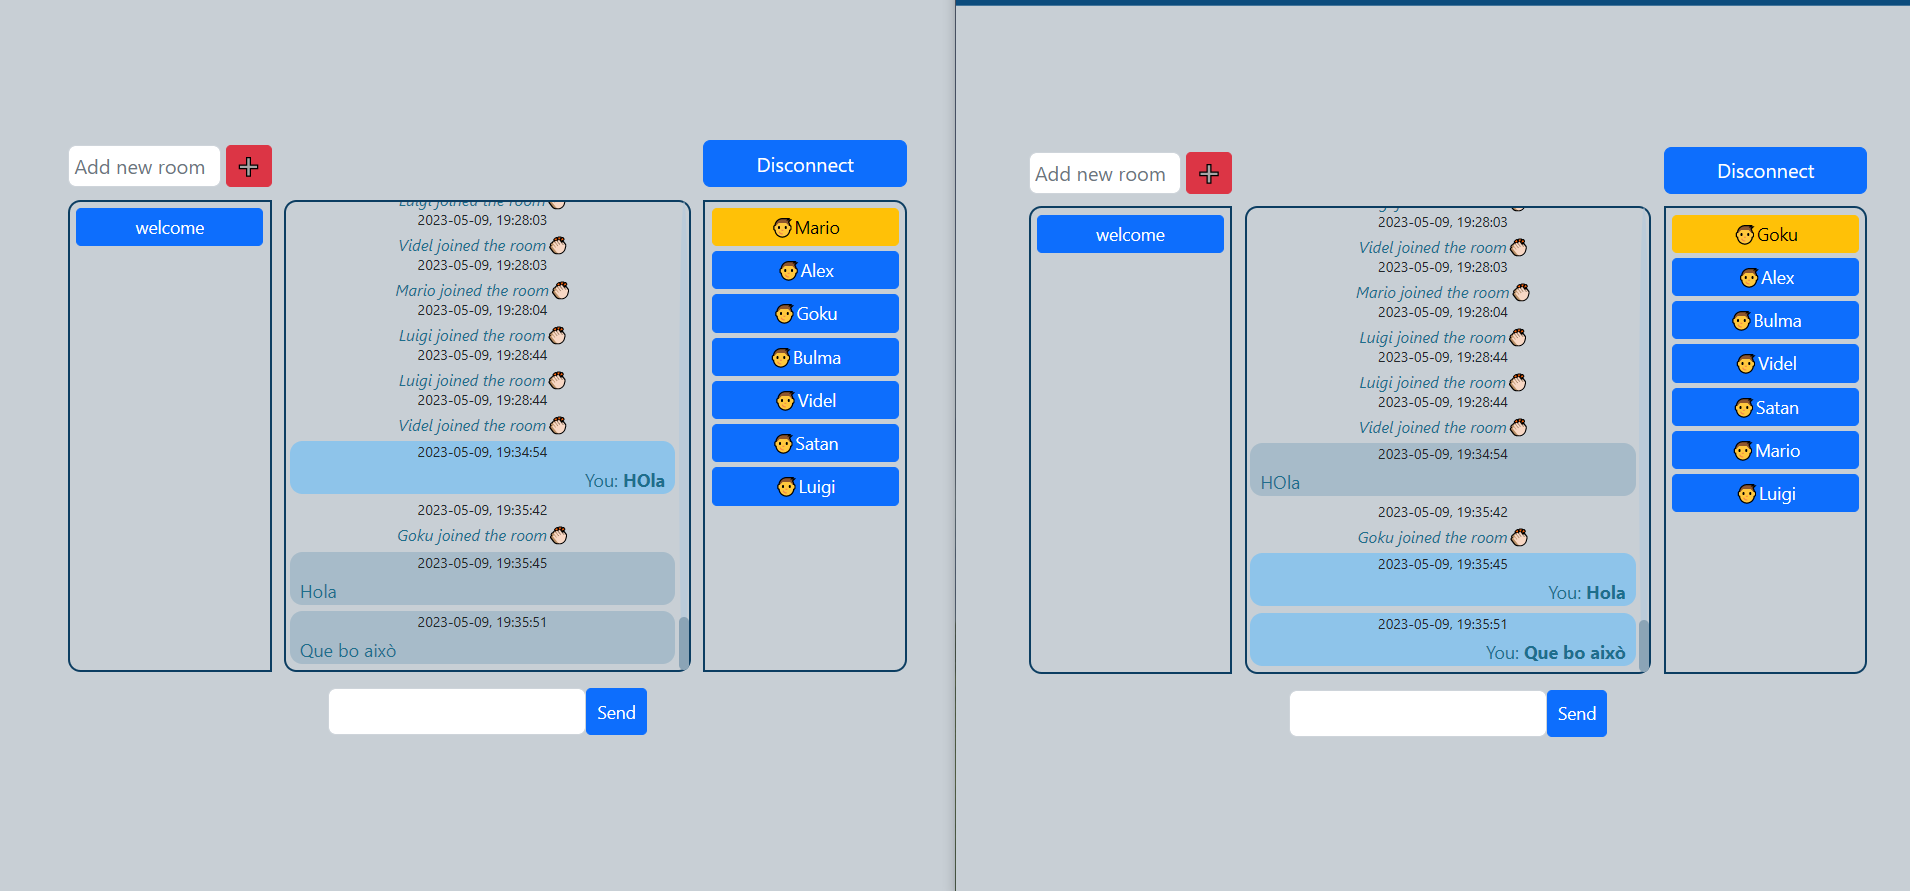
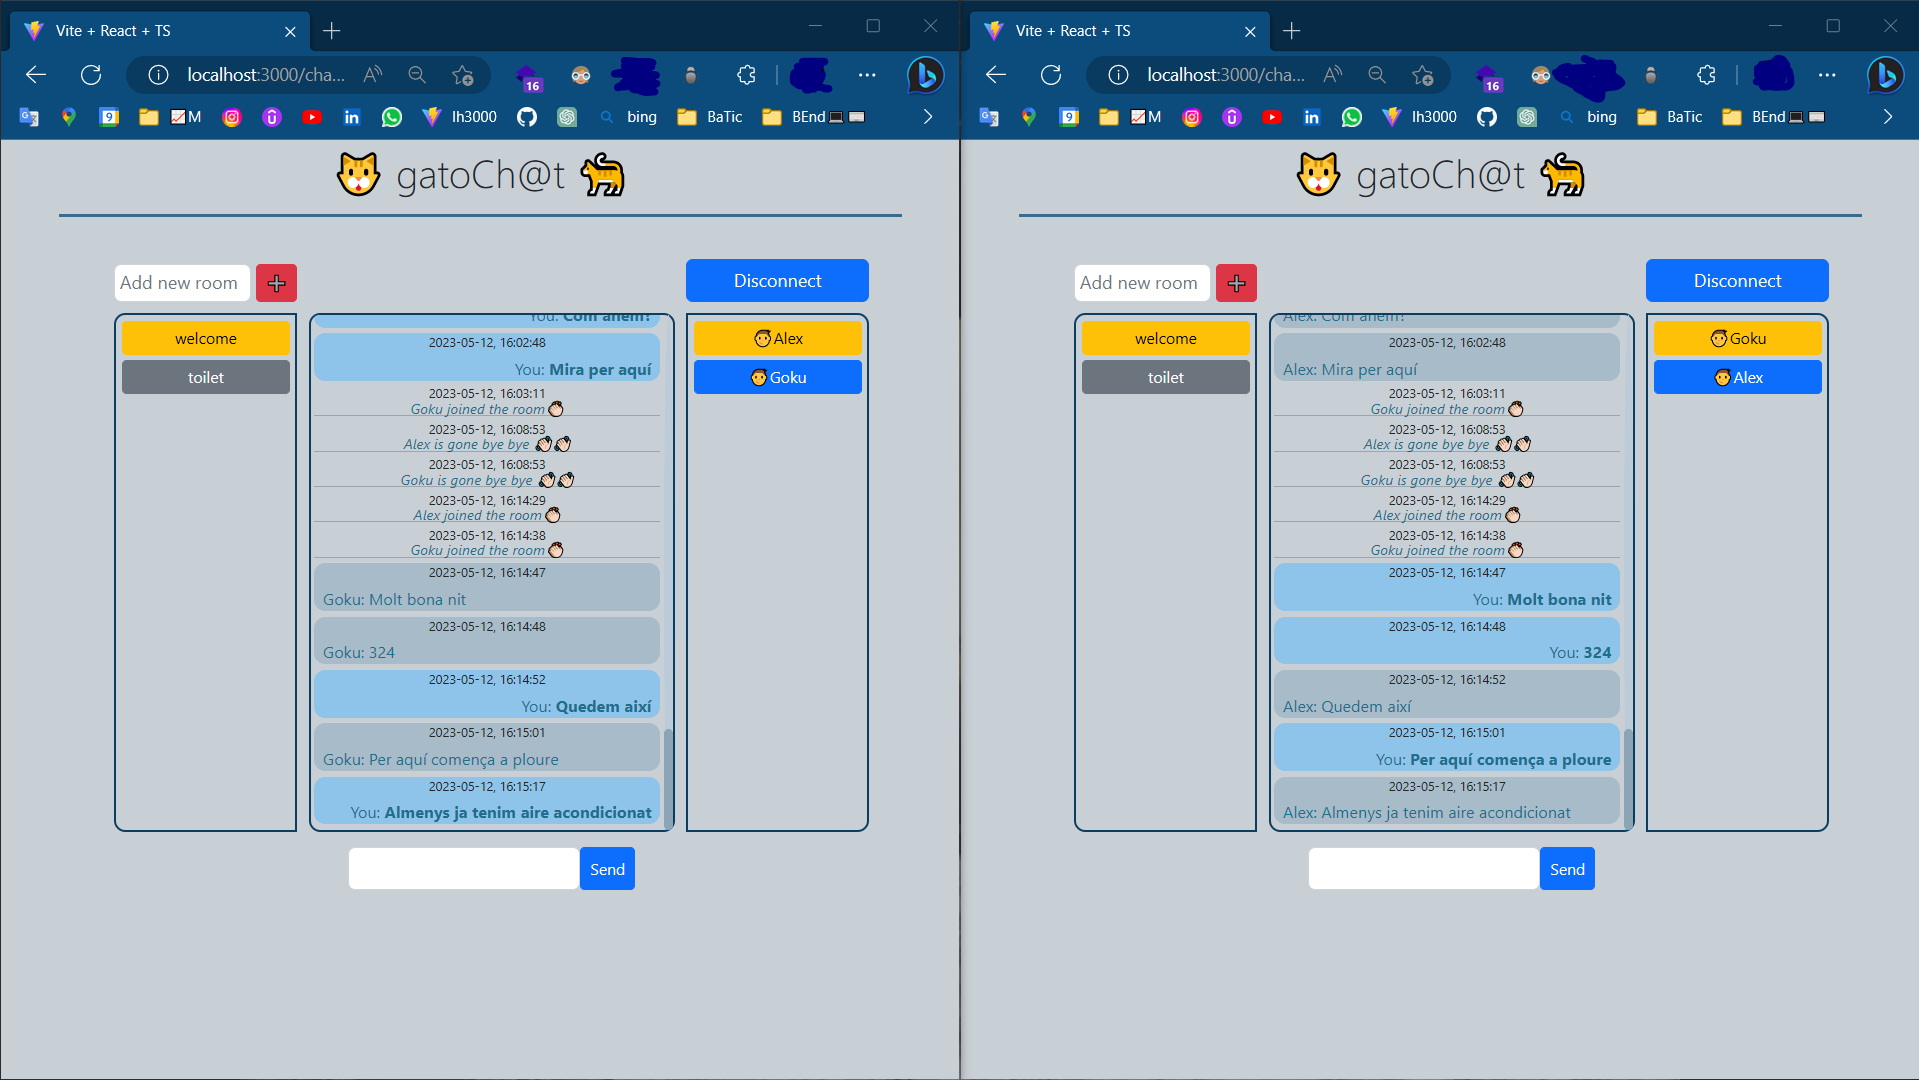
Added a header title, some screenshots and minor corrections

diff --git a/client/src/App.tsx b/client/src/App.tsx
@@ -6,6 +6,7 @@ import { useState } from 'react';
 import UserLoginForm from './components/UserLoginForm';
 import UserRegisterForm from './components/UserRegisterForm';
 import { User } from './Interfaces/Interfaces';
+import Header_bar from './components/Header_bar';
 
 function App() {
   const [loggedUser, setLoggedUser] = useState<User | null>(null);
@@ -18,6 +19,7 @@ function App() {
     <div className="App">
       {/* Apply the Provider property of the Socket Context to the app and
       feed it with the state and dispatch objects from the reducer defined */}
+      <Header_bar />
       <BrowserRouter>
         <Routes>
           <Route path="/" element={<Navigate to="/welcome/login" />} />

diff --git a/client/src/components/ChatBox.tsx b/client/src/components/ChatBox.tsx
@@ -1,6 +1,6 @@
 import { useContext, useEffect, useRef, useState } from 'react';
 import { SocketContext } from '../context/SocketContext';
-import { Message, Room, User } from '../Interfaces/Interfaces';
+import { Message, User } from '../Interfaces/Interfaces';
 import { useParams } from 'react-router-dom';
 
 const ChatBox = () => {
@@ -10,7 +10,6 @@ const ChatBox = () => {
   const { currentRoom } = useParams();
 
   const user = JSON.parse(current_uid) as User;
-  // console.log(user);
 
   // Enter room
   useEffect(() => {

diff --git a/client/src/styles/global.css b/client/src/styles/global.css
@@ -8,12 +8,12 @@ body {
 
 .container {
   position: relative;
-  height: 75vh;
+  height: 65vh;
   width: 750px;
   max-width: 90%;
   display: grid;
   grid-template-columns: 25% 50% 25%;
-  grid-template-rows: 30% 60% 10%;
+  grid-template-rows: 15% 70% 15%;
   grid-column-gap: 10px;
 }
 
@@ -29,9 +29,7 @@ body {
 .header_bar {
   grid-column-start: 1;
   padding: 0.5rem;
-  margin-bottom: 0.5rem;
-  grid-column-end: 4;
-  grid-row: 1/2;
+  margin-bottom: 0.25rem;
   border-bottom: 3px solid rgb(58, 108, 144);
 }
 

diff --git a/client/src/components/Header_bar.tsx b/client/src/components/Header_bar.tsx
@@ -1,13 +1,11 @@
 // the title, mainly, nothing more
 
-// type Props = {}
-
 const Header_bar = () => {
   return (
     <div className="header_bar">
-        <h2>Welcome Ch@T</h2>
+      <h1 className="display-6">🐱 gatoCh@t 🐈</h1>
     </div>
-  )
-}
+  );
+};
 
-export default Header_bar
+export default Header_bar;

diff --git a/client/src/components/MessageInput.tsx b/client/src/components/MessageInput.tsx
@@ -11,7 +11,7 @@ interface MessageInputProps {
 
 const MessageInput = (props: MessageInputProps) => {
   const { appState } = useContext(SocketContext);
-  const msgInputRef = useRef<HTMLInputElement>(null);
+  const msgInputRef = useRef<HTMLInputElement | null>(null);
 
   const { current_uid, socket } = appState;
 

diff --git a/client/src/components/ConnectedUsersBox.tsx b/client/src/components/ConnectedUsersBox.tsx
@@ -33,7 +33,6 @@ const ConnectedUsersBox = (props: ConnectedUsersBoxProps) => {
 
   return (
     <div className="user-list">
-      {/* <h6>Connected ({usersInWelcomeChat})</h6> */}
       <div className="d-grid gap-1">
         {room?.users &&
           room.users.length > 0 &&
